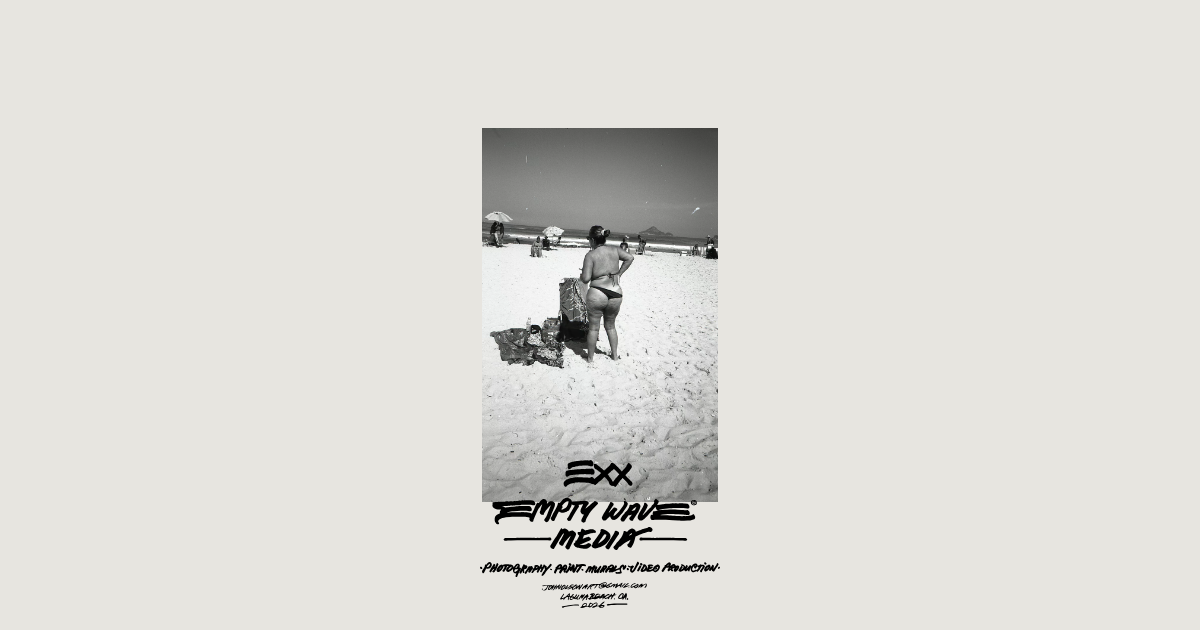
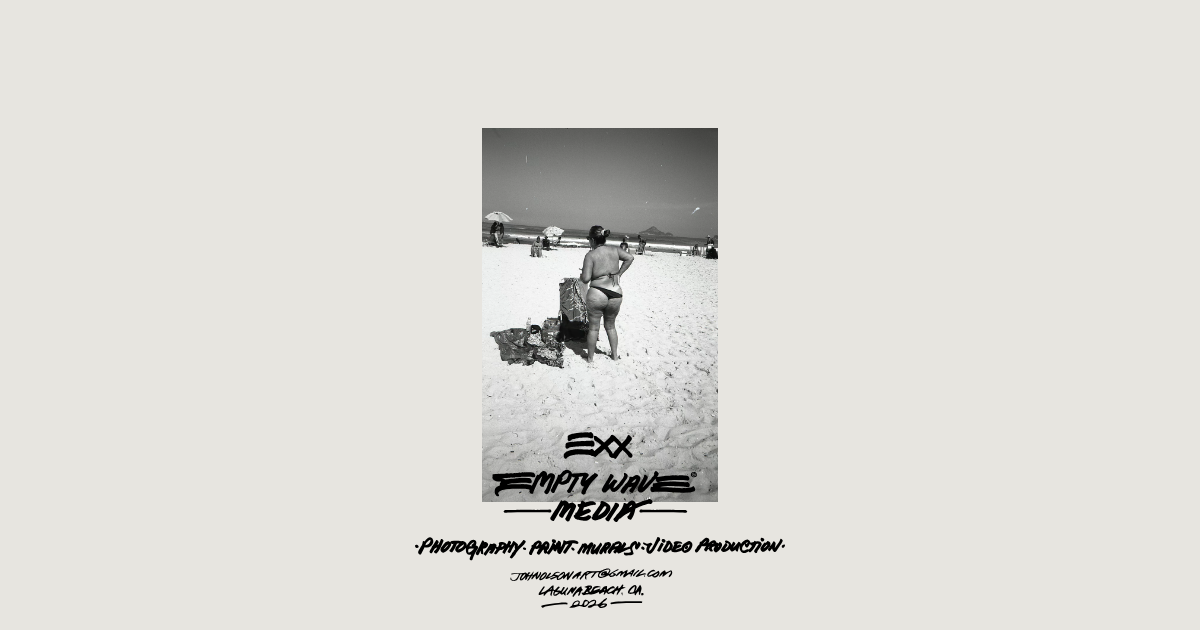
Enlarge the lockup's lower block
Scales the services line, email, city and year up so the services line is
100px wider at a 1280px viewport (294px -> 394px). The four sit in a single
SVG, so one scale value moves them together and their proportions to each
other are preserved by construction.

Also regenerates the share image, which is a screenshot of the real poster
and was therefore stale the moment the lockup changed.

Claude-Session: https://claude.ai/code/session_01QZXUpyUaiVFuJRuV7aq7WM

Changed region(s): [[0.3392, 0.6635, 0.6475, 0.9651]]

diff --git a/app/globals.css b/app/globals.css
@@ -42,7 +42,7 @@
    * Size of the lower half of the lockup (services line, email, city, year)
    * relative to the mark above it. 1 reproduces the supplied artwork exactly.
    */
-  --ew-lockup-details-scale: 1.15;
+  --ew-lockup-details-scale: 1.54;
 
   /*
    * The lockup is narrower than the media it sits under — measured off the
